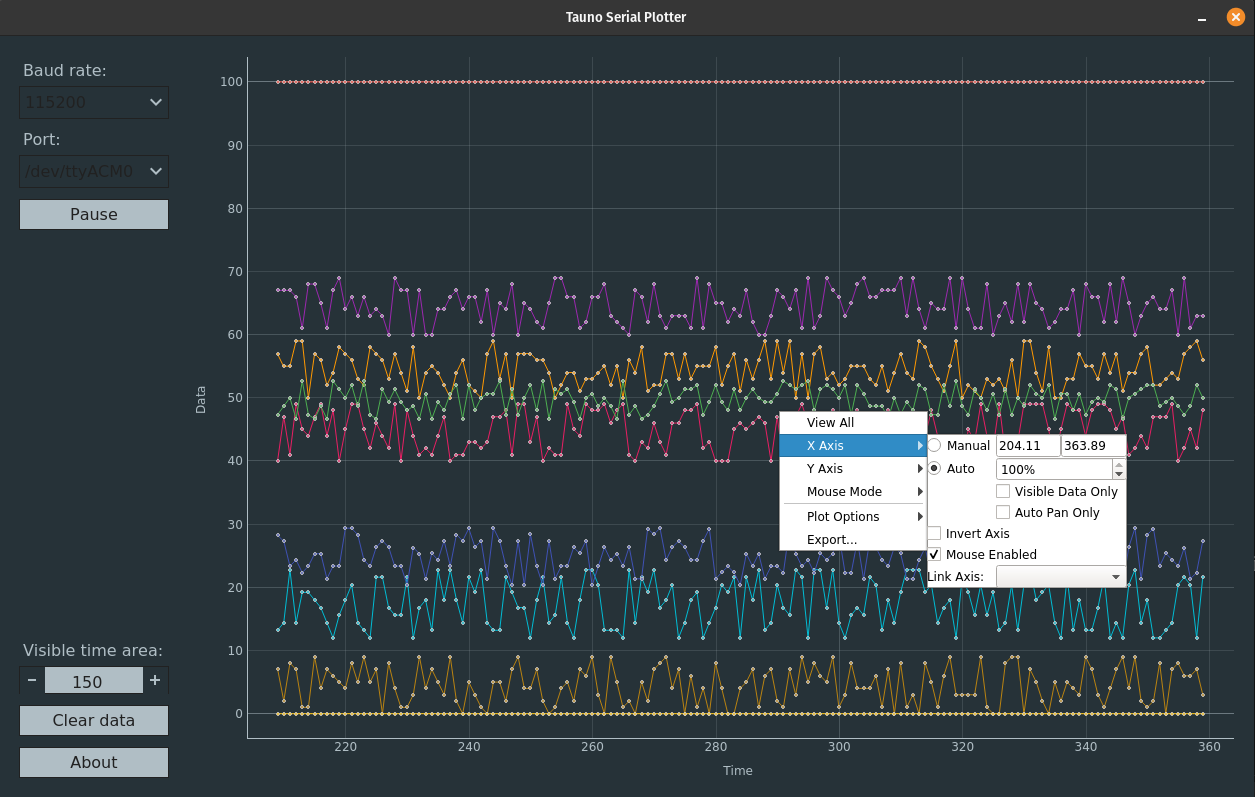
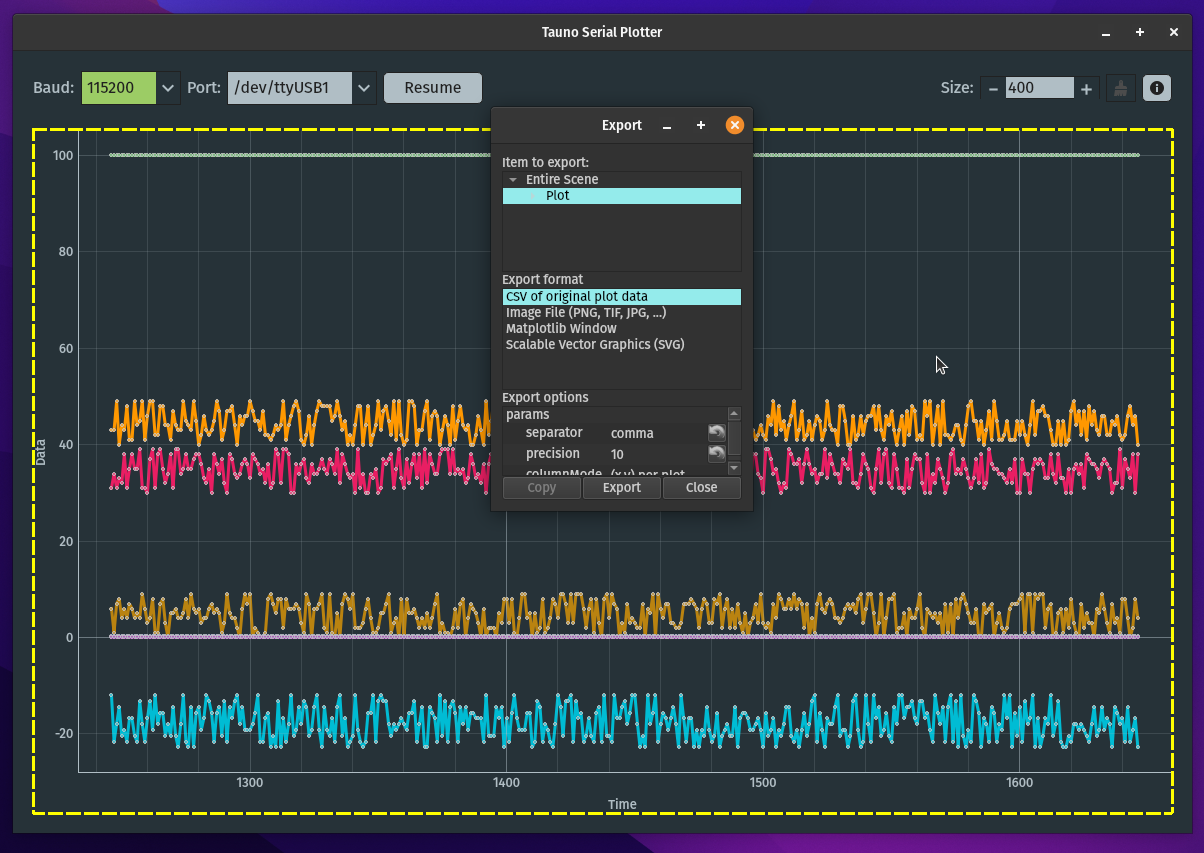
New GUI layout

diff --git a/src/tauno-serial-plotter.py b/src/tauno-serial-plotter.py
@@ -1,12 +1,9 @@
 #!/usr/bin/env python3
 """
-    File:   Tauno-Serial-Plotter.py
-    Author: Tauno Erik
-    Started:07.03.2020
-    Edited: 09.01.2026
-
-    TODO:
-    - Monitor
+    File:    Tauno-Serial-Plotter.py
+    Author:  Tauno Erik
+    Started: 07.03.2020
+    Edited:  10.01.2026
 """
 import sys
 import re
@@ -22,7 +19,7 @@ from PyQt6.QtWidgets import (QApplication, QHBoxLayout, QVBoxLayout,
 import pyqtgraph as pg
 import platform
 
-VERSION = '1.21.2'
+VERSION = '1.20.3'
 TIMESCALESIZE = 400  # = self.plot_timescale and self.plot_data_size
 
 stop_port_scan = False # To kill port scan thread when sys.exit
@@ -31,17 +28,24 @@ stop_port_scan = False # To kill port scan thread when sys.exit
 logging.basicConfig(level=logging.DEBUG)
 #logging.basicConfig(level=logging.CRITICAL)
 
+
 # GUI Icons
 if platform.system() == 'Windows' :
     icon_logo = "./icons/tauno-plotter.svg"
     icon_minus = "./icons/minus.svg"
     icon_plus = "./icons/plus.svg"
     icon_arrow_down = "./icons/arrow_down.svg"
+    icon_about = "./icons/help-about-symbolic.svg"
+    icon_clean = "./icons/larger-brush-symbolic.svg"
+    icon_size = "./icons/ruler-end-horizontal-left-symbolic.svg"
 else:
     icon_logo = os.path.join(os.path.dirname(__file__), 'icons/tauno-plotter.svg')
     icon_minus = os.path.join(os.path.dirname(__file__), 'icons/minus.svg')
     icon_plus = os.path.join(os.path.dirname(__file__), 'icons/plus.svg')
     icon_arrow_down = os.path.join(os.path.dirname(__file__), 'icons/arrow_down.svg')
+    icon_about = os.path.join(os.path.dirname(__file__), 'icons/help-about-symbolic.svg')
+    icon_clean = os.path.join(os.path.dirname(__file__), 'icons/larger-brush-symbolic.svg')
+    icon_size = os.path.join(os.path.dirname(__file__), 'icons/ruler-end-horizontal-left-symbolic.svg')
 
 # GUI colours
 colors =  {
@@ -79,13 +83,35 @@ pg.setConfigOptions(antialias=True)
 pg.setConfigOption('background', colors['dark'])
 pg.setConfigOption('foreground', colors['hall'])
 
+QIconButton_style = f"""
+QPushButton{{
+    color: {colors['black']};
+    background-color: {colors['hall']};
+    border: 1px solid {colors['black']};
+    border-radius: 5px;
+    padding: 5px;
+    margin-top: 0px;
+    font: {FONTSIZE}px;
+}}
+
+QPushButton::hover{{
+    background-color: {colors['green']};
+    color: {colors['black']};
+}}
+
+QPushButton::pressed{{
+    border: 1px solid {colors['oranz']};
+    background-color: {colors['hall']};
+}}"""
+
 QPushButton_style = f"""
 QPushButton{{
     color: {colors['black']};
     background-color: {colors['hall']};
     border: 1px solid {colors['black']};
+    border-radius: 5px;
     padding: 5px;
-    margin-top: 5px;
+    margin-top: 0px;
     font: {FONTSIZE}px;
 }}
 
@@ -105,7 +131,7 @@ QPushButton{{
     background-color: {colors['dark']};
     border: 1px solid {colors['black']};
     padding: 5px;
-    margin-top: 5px;
+    margin-top: 0px;
     font: {FONTSIZE}px;
 }}
 """
@@ -114,7 +140,7 @@ QLabel_style = f"""
 QLabel{{
     color: {colors['hall']};
     font: {FONTSIZE}px;
-    margin-top: 5px;
+    margin-top: 0px;
 }}
 """
 
@@ -122,7 +148,7 @@ Qinfo_text_style = f"""
 QLabel{{
     color: {colors['hall']};
     font: {FONTSIZE-3}px;
-    margin-top: 5px;
+    margin-top: 0px;
 }}
 """
 
@@ -280,7 +306,7 @@ class ForeverWorker(QRunnable):
         self.is_working = True
 
     def __del__(self):
-        self.is_working = True
+        self.is_working = False #True
         #self.wait()
 
     def run(self):
@@ -293,8 +319,7 @@ class ForeverWorker(QRunnable):
                self.is_working = False
 
 
-# Deprecated: GraphicsWindow
-# New: GraphicsLayoutWidget
+
 class Plot(pg.GraphicsLayoutWidget):
     """ Plot definition """
     def __init__(self, nr_plot_lines='1', labels=["sensor1"]):
@@ -314,7 +339,6 @@ class Plot(pg.GraphicsLayoutWidget):
         self.serialplot.setLabel('bottom', 'Time')
         self.serialplot.showGrid(x=True, y=True)
         self.serialplot.addLegend()
-
 
         # Place to hold data
         self.x_axis = [0]  # Time
@@ -345,7 +369,8 @@ class Plot(pg.GraphicsLayoutWidget):
             self.data_lines.append(line)
 # END of class Plot ------------------------------------------------------
 
-class Controls(QWidget):
+
+class Controls_VANA(QWidget):
     """
     Define controls and menus design.
     """
@@ -364,7 +389,6 @@ class Controls(QWidget):
 
         # Top Menu
         self.menu_top = QVBoxLayout()
-        #self.menu_top.setAlignment(Qt.AlignTop)#PyQt5
         self.menu_top.setAlignment(Qt.AlignmentFlag.AlignTop)
 
         # Label Baud
@@ -449,6 +473,122 @@ class Controls(QWidget):
         """ If we resize main window. """
         super(Controls, self).resizeEvent(event)
 
+
+# END of class Controls ---- VANA ----------------------------------------
+
+
+class Controls(QWidget):
+    """
+    Define controls and menus design.
+    """
+    def __init__(self, parent=None):
+        super(Controls, self).__init__(parent=parent)
+
+        # Plot time scale == data visible area size
+        self.plot_timescale = TIMESCALESIZE # default
+        self.plot_timescale_min = 50
+        self.plot_timescale_max = 1000
+
+        self.top_menu_row = QHBoxLayout(self)
+        self.top_menu_row.setAlignment(Qt.AlignmentFlag.AlignTop)
+
+        # Menu width:
+        self.control_width = 550
+
+        # Top Menu
+        self.menu_top = QHBoxLayout()#QVBoxLayout()
+        self.menu_top.setAlignment(Qt.AlignmentFlag.AlignLeft)
+
+        # Label Baud
+        self.baud_label = QLabel(self)
+        self.menu_top.addWidget(self.baud_label)
+        self.baud_label.setText("Baud:")
+        self.baud_label.setStyleSheet(QLabel_style)
+        # Select Baud
+        self.select_baud = QtWidgets.QComboBox(parent=self)
+        self.menu_top.addWidget(self.select_baud)
+        self.select_baud.setStyleSheet(QComboBox_style)
+        self.select_baud.setFixedWidth(100)
+
+        # Label Port
+        self.device_label = QLabel(self)
+        self.menu_top.addWidget(self.device_label)
+        self.device_label.setText("Port:")
+        self.device_label.setStyleSheet(QLabel_style)
+        # Select Port
+        self.select_port = QtWidgets.QComboBox(parent=self)
+        self.menu_top.addWidget(self.select_port)
+        self.select_port.setStyleSheet(QComboBox_style)
+        self.select_port.setFixedWidth(150)
+
+        # Button Connect
+        self.connect = QtWidgets.QPushButton('Connect', parent=self)
+        self.menu_top.addWidget(self.connect)
+        self.connect.setFixedWidth(100)
+        self.connect.setStyleSheet(QPushButton_style)
+
+        # Info text
+        #self.info_text = QLabel(self)
+        #self.menu_top.addWidget(self.info_text)
+        #self.info_text.setText("\nTo export data\nright-click on the plot.")
+        #self.info_text.setStyleSheet(Qinfo_text_style)
+
+        self.top_menu_row.addLayout(self.menu_top)
+        # Top menu ends
+
+
+        # Bottom menu
+        self.menu_bottom = QHBoxLayout()#QVBoxLayout()
+        self.menu_bottom.setAlignment(Qt.AlignmentFlag.AlignRight)
+
+        # Select Time scale size
+        ## Time scale txt
+        self.time_scale_txt = QLabel(self)
+        self.menu_bottom.addWidget(self.time_scale_txt)
+        #self.time_scale_txt.set(QtGui.QIcon(icon_size))
+        self.time_scale_txt.setText("Size:")
+        self.time_scale_txt.setStyleSheet(QLabel_style)
+        ## SpinBox
+        self.time_scale_spin = QtWidgets.QDoubleSpinBox()
+        self.time_scale_spin.setSingleStep(1)
+        self.time_scale_spin.setDecimals(0)
+        self.time_scale_spin.setFixedWidth(120)
+        self.time_scale_spin.setMaximum(self.plot_timescale_max)
+        self.time_scale_spin.setMinimum(self.plot_timescale_min)
+        self.time_scale_spin.setValue(self.plot_timescale)
+        self.menu_bottom.addWidget(self.time_scale_spin)
+        self.time_scale_spin.setStyleSheet(QDoubleSpinBox_style)
+
+        # Button: Clear data
+        self.clear_data = QtWidgets.QPushButton(
+            icon=QtGui.QIcon(icon_clean),
+            text='',
+            parent=self)
+        self.menu_bottom.addWidget(self.clear_data)
+        self.clear_data.setFixedWidth(30)
+        self.clear_data.setStyleSheet(QPushButton_disabled_style)
+        self.clear_data.setEnabled(False)
+
+        # Button: About
+        self.about = QtWidgets.QPushButton(
+            icon=QtGui.QIcon(icon_about),
+            text='',
+            parent=self)
+        self.menu_bottom.addWidget(self.about)
+        self.about.setFixedWidth(30)
+        self.about.setStyleSheet(QIconButton_style)
+
+        self.top_menu_row.addLayout(self.menu_bottom)
+
+    def update_timescale(self, new_value):
+        """ Assign new value. """
+        self.plot_timescale = new_value
+
+    def resizeEvent(self, event):
+        """ If we resize main window. """
+        super(Controls, self).resizeEvent(event)
+
+
 # END of class Controls ----------------------------------------
 
 
@@ -501,7 +641,7 @@ class MainWindow(QWidget):
 
         self.init_ui()
         self.center_mainwindow()
-        self.horizontal_layout = QHBoxLayout(self)
+        self.horizontal_layout = QVBoxLayout(self) #QHBoxLayout(self)
 
         self.init_timer()
         self.ser = serial.Serial()
@@ -973,7 +1113,6 @@ if __name__ == '__main__':
     window.show()
 
     try:
-        #exit_code = app.exec_()#pyqt5
         exit_code = app.exec()
         print(exit_code)
         sys.exit(exit_code)

diff --git a/setup.py b/setup.py
@@ -9,7 +9,7 @@ with open("README.md", "r", encoding="utf-8") as fh:
 
 setuptools.setup(
     name="tauno-serial-plotter",
-    version="1.20.2",
+    version="1.20.3",
     author="Tauno Erik",
     author_email="sedumacre@gmail.com",
     description="Tauno-Serial-Plotter is simple serial plotter for Arduino and others.",
